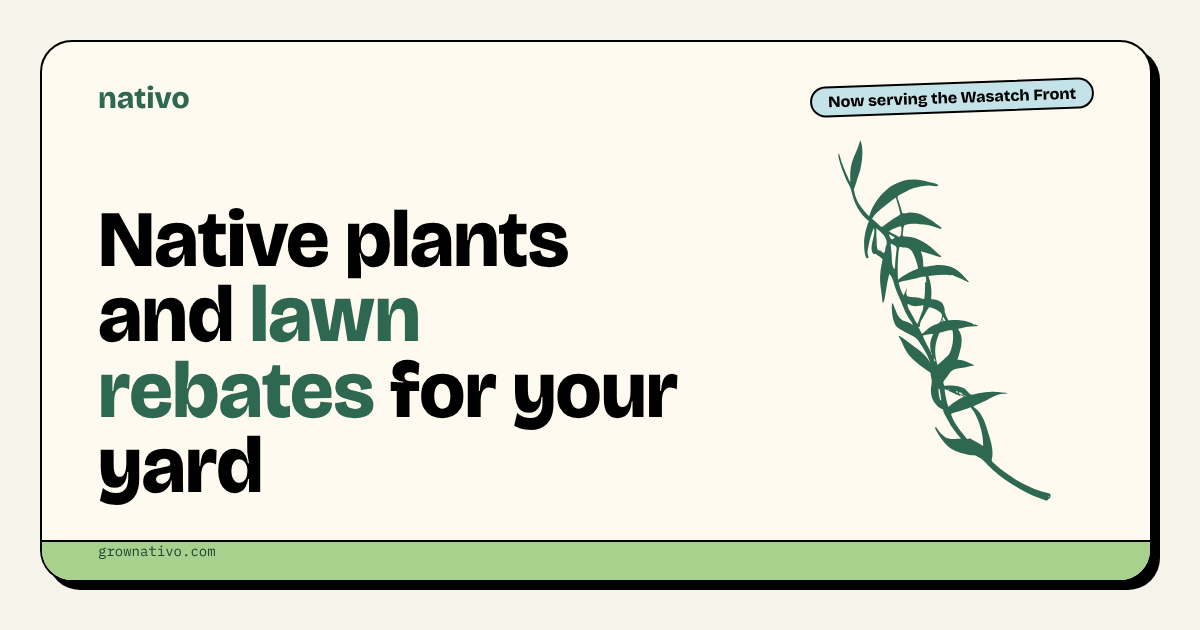
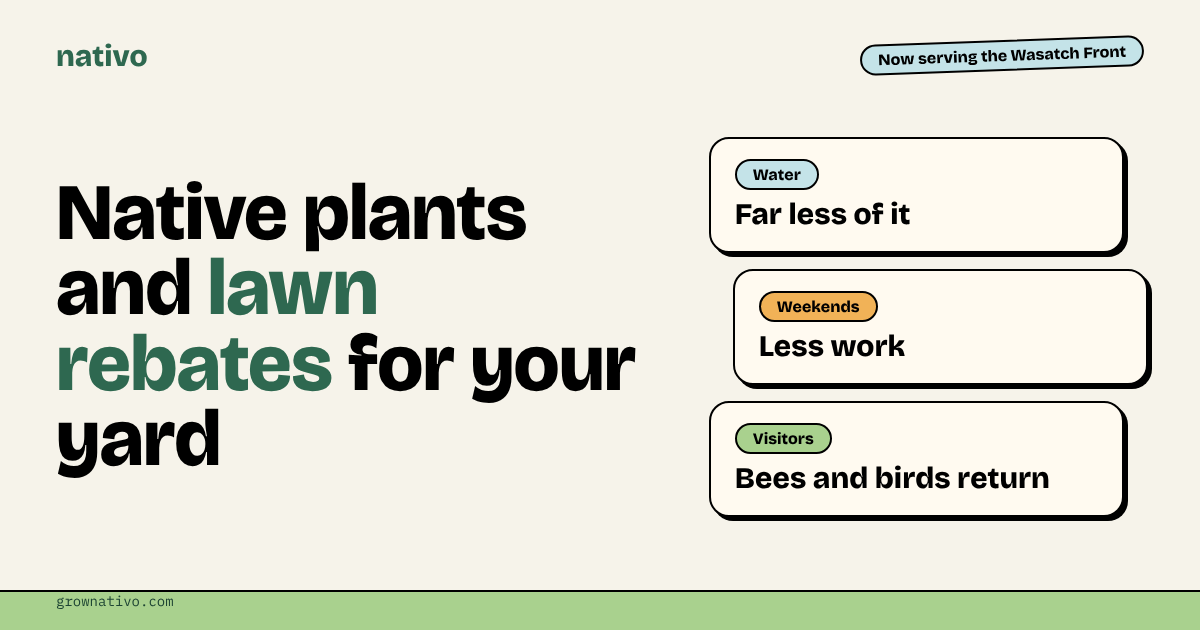
Swap the share card's plant drawing for the native-yard facts
The right side now shows the three facts from the landing page's
"Why a native yard" section (Water, Weekends, Visitors) as staggered
paper cards. Body text is left out so the cards stay readable at
chat-preview size. The outer paper frame is gone so the cards sit on
the cream page, as they do on the landing page.

Claude-Session: https://claude.ai/code/session_01DwJ9qetontYxWKDDry8FyS

diff --git a/apps/web/og/card.html b/apps/web/og/card.html
@@ -24,7 +24,7 @@
     box-sizing: border-box;
     width: 1200px;   /* fixed canvas: link-preview standard */
     height: 630px;
-    padding: var(--space-40) var(--space-48) var(--space-48) var(--space-40);
+    padding: 0;
     display: flex;
   }
   .og__card {
@@ -32,10 +32,6 @@
     position: relative;
     display: flex;
     flex-direction: column;
-    background: var(--paper);
-    border: var(--border-2) solid var(--line);
-    border-radius: var(--radius-window-lg);
-    box-shadow: var(--shadow-8);
     overflow: hidden;
   }
   .og__body {
@@ -43,7 +39,7 @@
     display: flex;
     flex-direction: column;
     gap: var(--space-24);
-    padding: var(--space-40) var(--space-56) var(--space-36);
+    padding: var(--space-40) var(--space-56) var(--space-32);
   }
   .og__top {
     display: flex;
@@ -78,20 +74,37 @@
   .og__main {
     flex: 1;
     display: grid;
-    grid-template-columns: 1fr 30%;
-    align-items: end;
-    gap: var(--space-24);
+    grid-template-columns: 1fr 40%;
+    align-items: center;
+    gap: var(--space-40);
   }
-  .og__art-box {
-    position: relative;
-    align-self: stretch;
+  .og__facts {
+    display: flex;
+    flex-direction: column;
+    gap: var(--space-16);
+    margin-right: var(--space-20);
   }
-  .og__art {
-    position: absolute;
-    inset: 0;
-    width: 100%;
-    height: 100%;
-    object-fit: contain;   /* keeps the drawing's own proportions */
+  .og__fact {
+    background: var(--paper);
+    border: var(--border-2) solid var(--line);
+    border-radius: var(--radius-note-lg);
+    box-shadow: var(--shadow-4);
+    padding: var(--space-20) var(--space-24);
+    display: flex;
+    flex-direction: column;
+    gap: var(--space-8);
+  }
+  /* Stagger like the landing page's card grid. */
+  .og__fact:nth-child(even) {
+    margin-left: var(--space-24);
+    margin-right: calc(-1 * var(--space-24));
+  }
+  .og__fact .lp-h3 {
+    margin: 0;
+  }
+  .og__fact .lp-badge {
+    font-size: var(--type-body-sm);
+    padding: var(--space-4) var(--space-16);
   }
 </style>
 </head>
@@ -105,7 +118,20 @@
         </div>
         <div class="og__main">
           <h1 class="lp-h1 og__title">Native plants and <span class="lp-accent">lawn rebates</span> for your yard</h1>
-          <div class="og__art-box"><img class="og__art" src="../../../design/nativo/assets/Branch/branch-04-green.svg" alt=""></div>
+          <div class="og__facts">
+            <article class="og__fact">
+              <span class="lp-badge lp-badge--sky">Water</span>
+              <h2 class="lp-h3">Far less of it</h2>
+            </article>
+            <article class="og__fact">
+              <span class="lp-badge lp-badge--gold">Weekends</span>
+              <h2 class="lp-h3">Less work</h2>
+            </article>
+            <article class="og__fact">
+              <span class="lp-badge lp-badge--meadow">Visitors</span>
+              <h2 class="lp-h3">Bees and birds return</h2>
+            </article>
+          </div>
         </div>
       </div>
       <div class="og__band">
